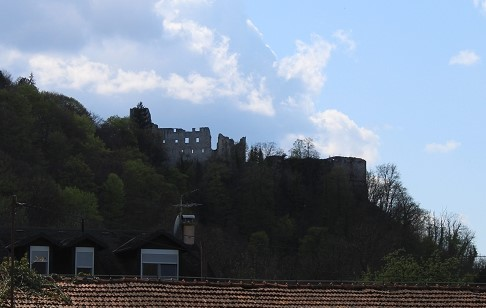
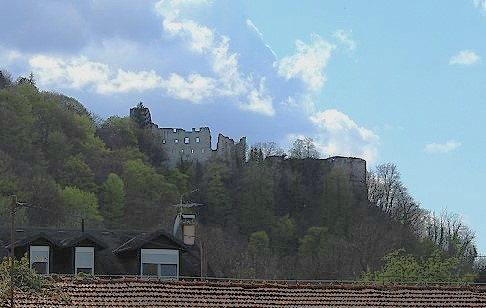
fix sightdetails blink transition, all images with same height in SightDetail

diff --git a/src/pages/SightDetails.jsx b/src/pages/SightDetails.jsx
@@ -8,6 +8,7 @@ import {
   IonRow,
   IonText,
   useIonRouter,
+  useIonViewWillEnter,
 } from "@ionic/react";
 import { cubeOutline, navigateOutline } from "ionicons/icons";
 import { useContext, useEffect, useRef, useState } from "react";
@@ -41,7 +42,6 @@ export default function SightDetails() {
   const router = useIonRouter();
   const { id } = useParams();
 
-  const galleryRef = useRef(null);
   const swipeRef = useRef(null);
 
   // How far the page sits from its resting place, and where it is heading once
@@ -65,23 +65,34 @@ export default function SightDetails() {
       ? null
       : sights[(index + step + sights.length) % sights.length];
 
+  // Replace rather than push: pushing mounts a second copy of this page on top
+  // of the one being swiped away, and for the frame before it has laid out the
+  // screen shows an empty page - the blink. Replacing keeps one page and simply
+  // changes which sight it is on. It also keeps the tab's history to the list
+  // the reader came from, rather than one entry per swipe.
   const goToSight = (step) => {
     const target = sightAt(step);
     if (!target) return;
-    router.push("/sights/" + target.id, "forward");
+    router.push("/sights/" + target.id, "none", "replace");
   };
 
   // Once the page has slid a page aside, the sight it uncovered becomes the
-  // page; coming to rest in the middle just leaves the drag undone. Either way
-  // the transform goes back to nothing: the sight now on screen belongs at
-  // rest, and a page Ionic keeps in its stack must not come back shifted.
+  // page; coming to rest in the middle just leaves the drag undone.
   const finishSettle = () => {
     const step = stepRef.current;
     stepRef.current = 0;
     settlingRef.current = false;
     settleTimerRef.current = null;
 
-    if (step !== 0) goToSight(step);
+    if (step !== 0) {
+      // Leave the page exactly where the drag put it. What is on screen is the
+      // neighbour it uncovered, which is the sight being navigated to, so the
+      // picture does not change as the new page takes over. Putting the
+      // transform back here instead would snap this sight into view first -
+      // the blink of the wrong page before the right one arrives.
+      goToSight(step);
+      return;
+    }
 
     offsetRef.current = 0;
     setOffset(0);
@@ -107,7 +118,7 @@ export default function SightDetails() {
   };
 
   // The next sight arrives in place, so the page starts from rest again
-  useEffect(() => {
+  const resetPosition = () => {
     clearTimeout(settleTimerRef.current);
     settleTimerRef.current = null;
     setOffset(0);
@@ -115,7 +126,18 @@ export default function SightDetails() {
     stepRef.current = 0;
     offsetRef.current = 0;
     settlingRef.current = false;
+  };
+
+  useEffect(() => {
+    resetPosition();
+    // eslint-disable-next-line react-hooks/exhaustive-deps
   }, [id]);
+
+  // A page left a page aside after a swipe is not unmounted - Ionic keeps it in
+  // the tab's stack - so put it back at rest before it is ever shown again.
+  useIonViewWillEnter(() => {
+    resetPosition();
+  });
 
   useEffect(() => () => clearTimeout(settleTimerRef.current), []);
 
@@ -203,7 +225,6 @@ export default function SightDetails() {
           (current ? (
             <Swiper
               modules={[Navigation, Pagination, Zoom]}
-              onSwiper={(swiper) => { galleryRef.current = swiper; }}
               slidesPerView={1}
               spaceBetween={10}
               // swiper starts following the finger after 5px and treats anything
@@ -214,8 +235,16 @@ export default function SightDetails() {
               navigation
               pagination={{ clickable: true, dynamicBullets: true }}
               loop={images.length > 1}
-              // the photo sets its own height, so let the gallery follow it
-              autoHeight={true}
+              // Off deliberately. With it on, Swiper measures only once the photo
+              // has loaded, so a freshly mounted gallery paints at zero height
+              // first: the text jumps to the top of the page for one frame and
+              // the photo shoves it down again - the blink after a swipe. The
+              // photo sizes itself through CSS anyway (width 100%, height auto,
+              // capped by max-height), so the gallery has its height from the
+              // first paint. The cost is that a photo shaped differently from
+              // the first one in the same sight letterboxes into the fill
+              // instead of resizing the gallery.
+              autoHeight={false}
               // toggle:false drops the built-in double-tap; the click below
               // drives the zoom instead. Two-finger pinch stays enabled.
               zoom={{ maxRatio: 4, toggle: false }}
@@ -230,8 +259,6 @@ export default function SightDetails() {
                       src={url}
                       alt={`${name} ${imageIndex + 1}`}
                       draggable={false}
-                      // autoHeight measures on init, before the image has a height
-                      onLoad={() => galleryRef.current?.update()}
                     />
                   </div>
                 </SwiperSlide>

diff --git a/src/pages/SightDetails.css b/src/pages/SightDetails.css
@@ -74,8 +74,16 @@
 
 .sight-details-gallery {
     width: 100%;
-    /* the photo sets its own height and must not be squeezed by the column */
+    /* the photo must not be squeezed by the column */
     flex: none;
+    /* A box of its own shape rather than one the first photo dictates, so every
+       photo in the sight fills it whatever its own proportions. 3:2 is what most
+       of the library is. Capped to what is actually on screen: the viewport less
+       the 50px header and the 49.2px tab bar, both from App.css. dvh tracks a
+       collapsing mobile URL bar; the vh line covers browsers without it. */
+    aspect-ratio: 3 / 2;
+    max-height: calc(100vh - 50px - 49.2px);
+    max-height: calc(100dvh - 50px - 49.2px);
     /* the fill beside the photo is inverted against the page: black in light
        mode, white in dark. --gallery-on-fill is whatever reads on top of it. */
     --gallery-fill: #000000;
@@ -92,10 +100,13 @@ body.dark .sight-details-gallery {
     --gallery-on-fill: #000000;
 }
 
-.sight-details-gallery .swiper-slide {
+.sight-details-gallery .swiper-slide,
+.sight-details-gallery .swiper-zoom-container {
     display: flex;
     align-items: center;
     justify-content: center;
+    width: 100%;
+    height: 100%;
 }
 
 /* Scoped through .swiper-zoom-container so these beat swiper's own
@@ -103,17 +114,11 @@ body.dark .sight-details-gallery {
    object-fit at the same specificity and may land later in the bundle. */
 .sight-details-gallery .swiper-zoom-container img {
     display: block;
-    /* Grow across the full width, but stop once the photo would be taller than
-       what is actually on screen: the viewport less the 50px header and the
-       49.2px tab bar (both from App.css). Past that the box stops growing and
-       object-fit shrinks the photo inside it, so the fill shows at the sides.
-       dvh tracks a collapsing mobile URL bar; the vh line covers browsers
-       without it, which is why the property is declared twice. */
     width: 100%;
-    height: auto;
-    max-height: calc(100vh - 50px - 49.2px);
-    max-height: calc(100dvh - 50px - 49.2px);
-    object-fit: contain;
+    height: 100%;
+    /* Fills the box, cropping what will not fit, rather than shrinking inside
+       it and leaving the fill showing at the sides. */
+    object-fit: cover;
     /* click zooms into the spot you pressed, click again returns */
     cursor: zoom-in;
 }
@@ -124,7 +129,7 @@ body.dark .sight-details-gallery {
 
 /* App.css hides the tab bar from this width up, so that height comes back */
 @media (min-width: 1200px) {
-    .sight-details-gallery .swiper-zoom-container img {
+    .sight-details-gallery {
         /* the tab bar is gone at this width, but the header and the footer each
            take 50px */
         max-height: calc(100vh - 100px);
